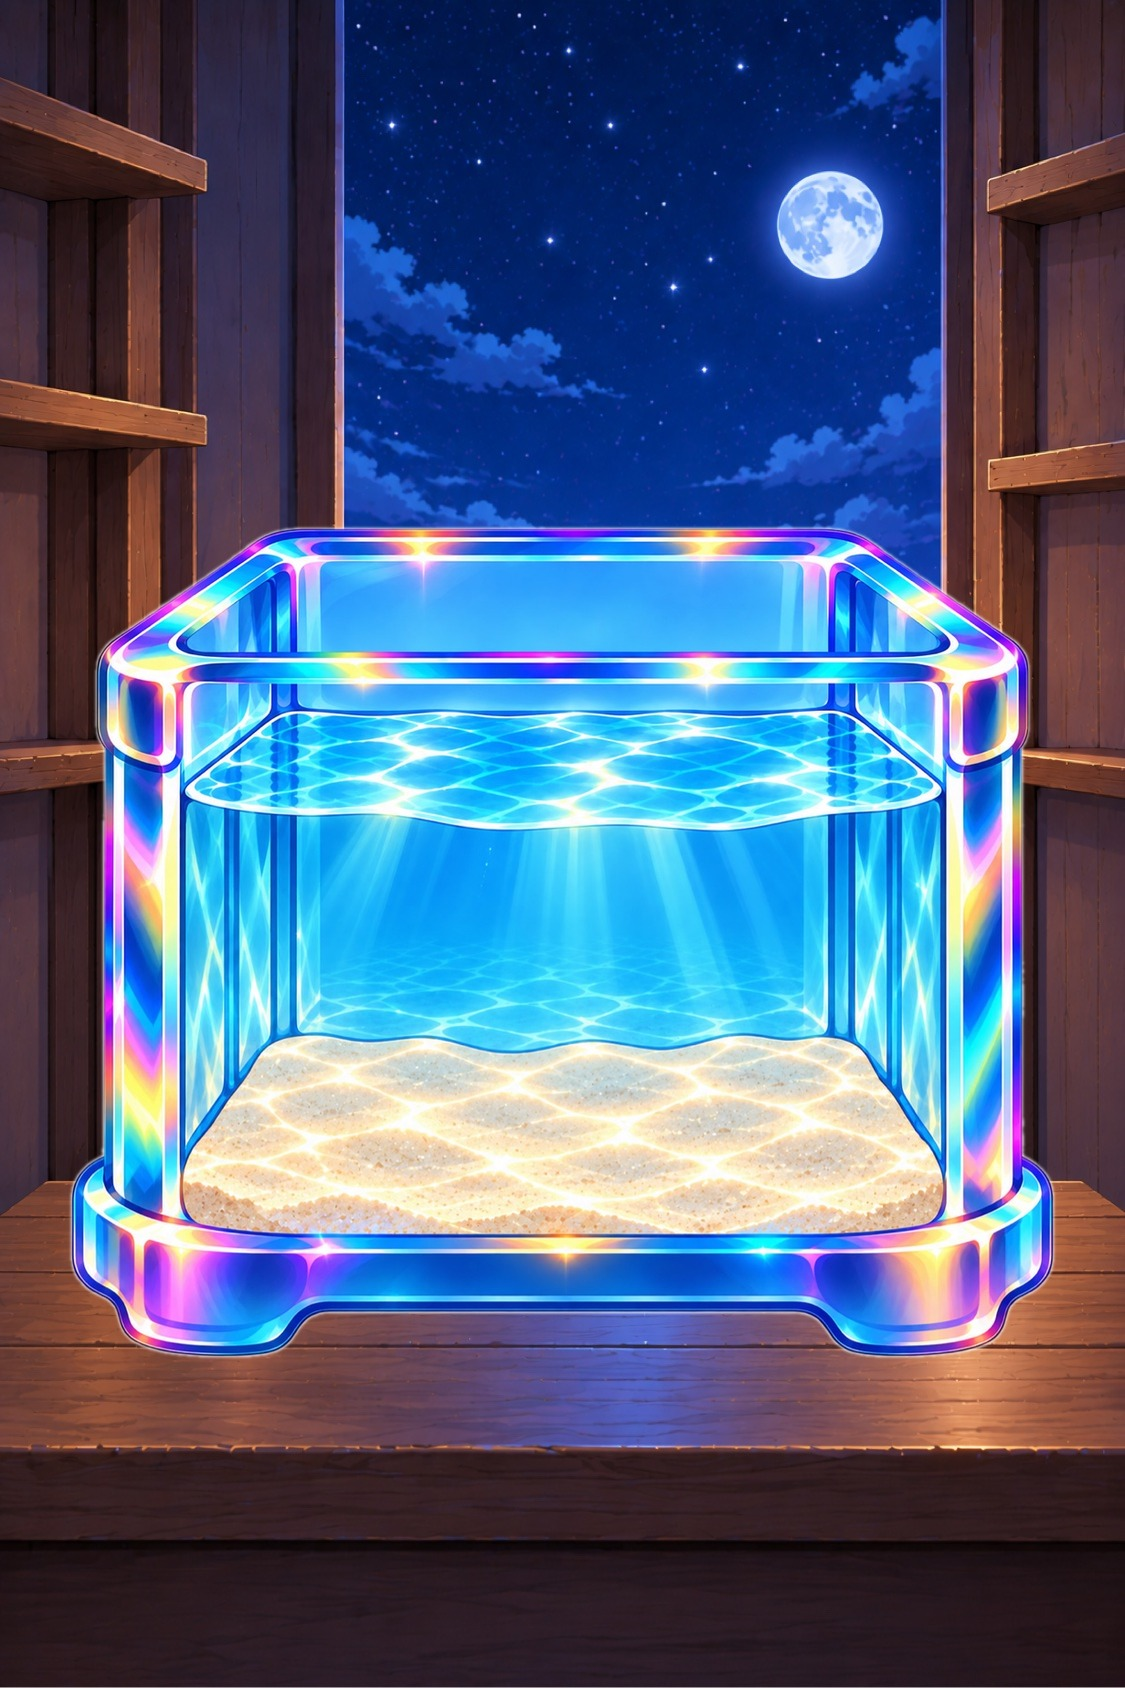
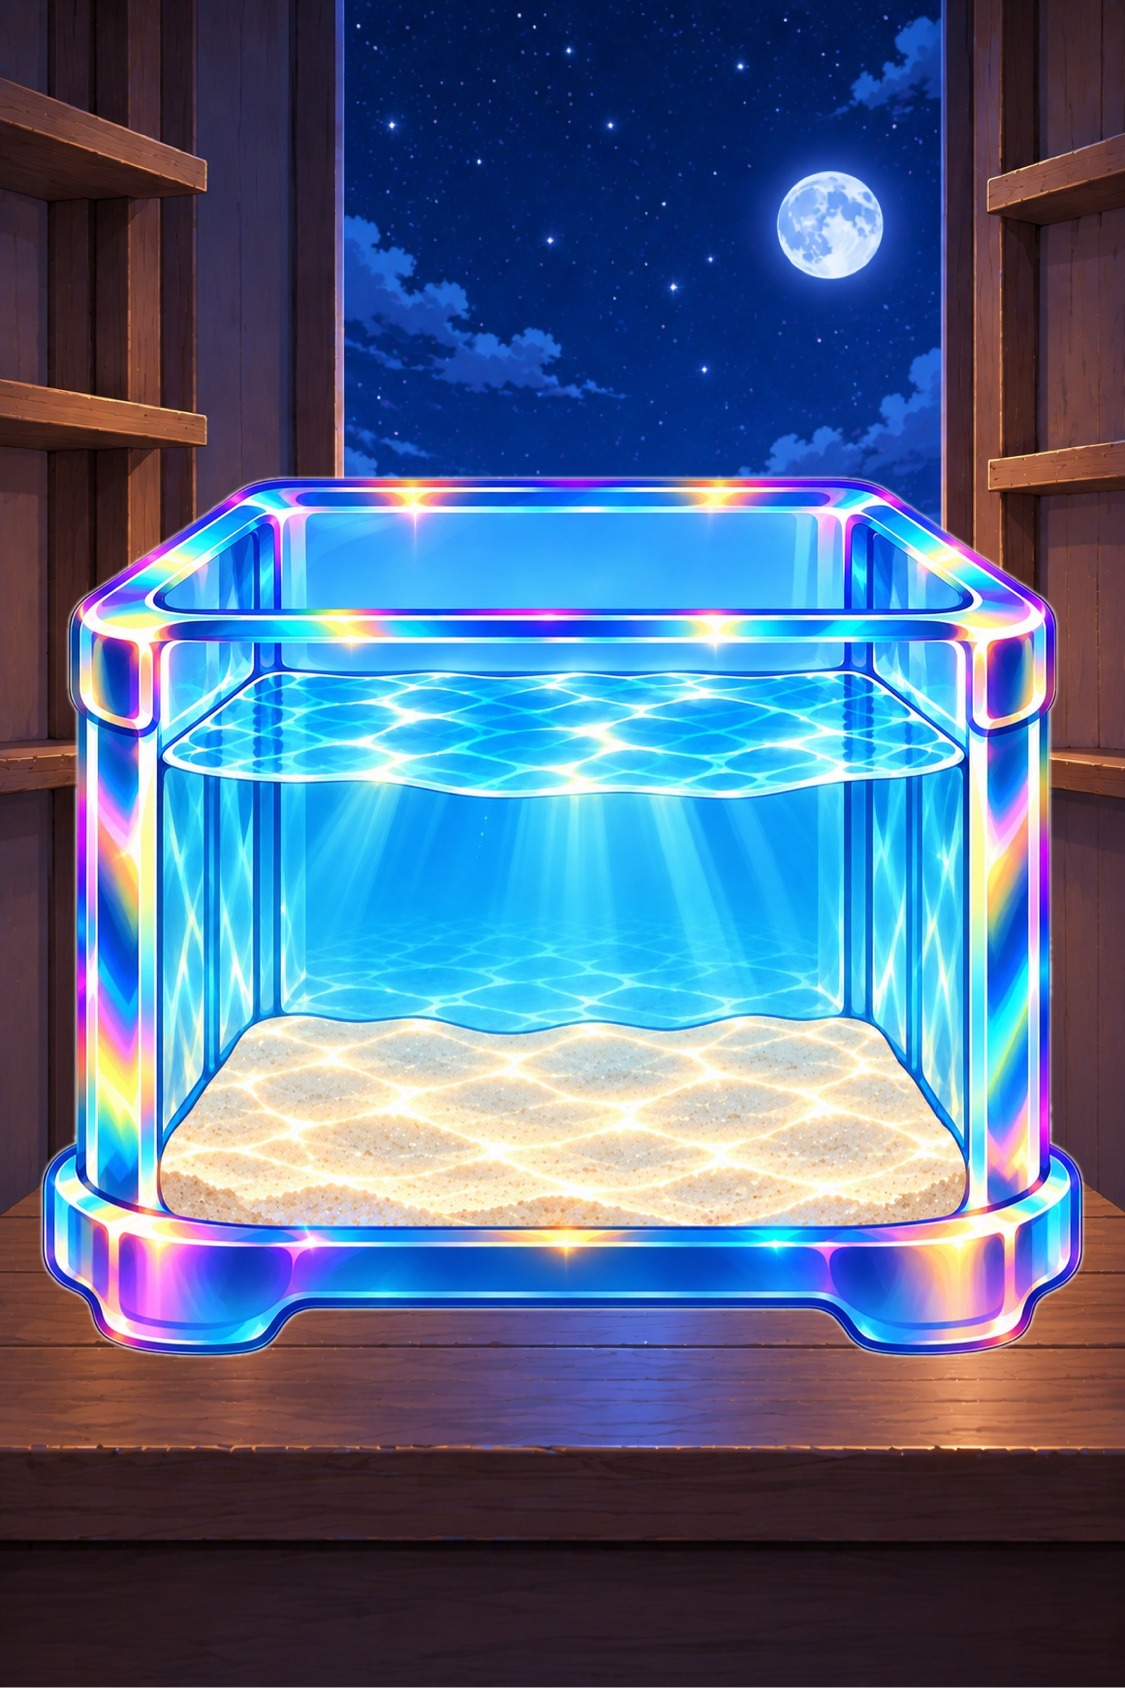
Small tank: slightly bigger aquarium (1060px)

diff --git a/public/js/data.js b/public/js/data.js
@@ -13,7 +13,7 @@ const DATA = {
   // measured glass rectangles, fractions of artwork (per API_CONTRACT.md §Glass)
   // small: two-layer composite (tank_small_bg.jpg + tank_small_fg.png via build_small_tank.py)
   GLASS: {
-    small:  { left: .177, right: .822, top: .459, bottom: .768 },
+    small:  { left: .158, right: .842, top: .438, bottom: .765 },
     medium: { left: .040, right: .960, top: .290, bottom: .800 },
     large:  { left: .036, right: .964, top: .320, bottom: .790 },
   },

diff --git a/build_small_tank.py b/build_small_tank.py
@@ -22,7 +22,7 @@ FG_FILE = os.path.join(TANKS, "tank_small_fg.png")
 OUT_FILE = os.path.join(TANKS, "tank_small.jpg")
 
 # Tank placement (tuned with user)
-TANK_W = 1000
+TANK_W = 1060
 TANK_BOTTOM_Y = 1365  # middle of table
 
 def main():
